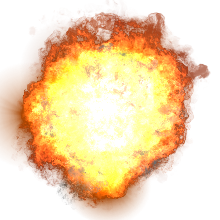
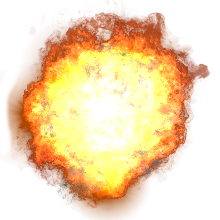
-Inclusao do Sprite da explosao completo.

Changed region(s): [[0.0, 0.3545, 0.0818, 0.6818]]

diff --git a/src/entities/ObjectType.java b/src/entities/ObjectType.java
@@ -15,7 +15,11 @@ public enum ObjectType {
 	ENEMY5("alien5R.png,alien5L.png"), 
 	ROCKET("rocket.png"), 
 	BOMB("bomb.png"),
-	EXPLOSION("0,1,2,3,4,5,6,7");
+	EXPLOSION("explosion1.png,explosion2.png,explosion3.png,explosion4.png,explosion5.png,explosion6.png,explosion7.png,explosion8.png,explosion9.png,explosion10.png," +
+			"explosion11.png,explosion12.png,explosion13.png,explosion14.png,explosion15.png,explosion16.png,explosion17.png,explosion18.png,explosion19.png,explosion20.png," +
+			"explosion21.png,explosion22.png,explosion23.png,explosion24.png,explosion25.png,explosion26.png,explosion27.png,explosion28.png,explosion29.png,explosion30.png," +
+			"explosion31.png,explosion32.png,explosion33.png,explosion34.png,explosion35.png,explosion36.png,explosion37.png,explosion38.png,explosion39.png,explosion40.png," +
+			"explosion41.png,explosion42.png,explosion43.png,explosion44.png,explosion45.png");
 	
 	public final String location;
 	

diff --git a/src/main/InvadersMain.java b/src/main/InvadersMain.java
@@ -172,7 +172,7 @@ public class InvadersMain {
 		//Bomb x Player
 		if (aliens.collison(player, CollisionType.BOMB_X_PLAYER)) {
 			score.decreaseLives();
-			Effects.createExplosion(player.getX(), player.getY() - 10, 32, 32);
+			Effects.createExplosion(player.getX() - player.getWidth()/2, player.getY() - player.getHeight(), 64, 64);
 			//score.addWarnHit(player.getX(), player.getY() - 20, "Hit!!", getTime());
 		}
 

diff --git a/src/objects/Enemy.java b/src/objects/Enemy.java
@@ -76,7 +76,7 @@ public class Enemy extends AbstractFigther {
 	void hit() {
 		numOfHits--;
 		if (numOfHits == 0) {
-			Effects.createExplosion(x, y-32, 100, 100);
+			Effects.createExplosion(x-width, y-height, 100, 100);
 			isMoving = false;
 			setDX(0);
 			setDY(0);

diff --git a/src/effects/Explosion.java b/src/effects/Explosion.java
@@ -8,7 +8,7 @@ public class Explosion extends AbstractEntity {
 	public Explosion(double x, double y, double width, double height, ObjectType type) {
 		super(x, y, width, height, type);
 		
-		shift_rate = 100;
+		shift_rate = 20;
 		max_shift_times = 1;
 	}
 	
